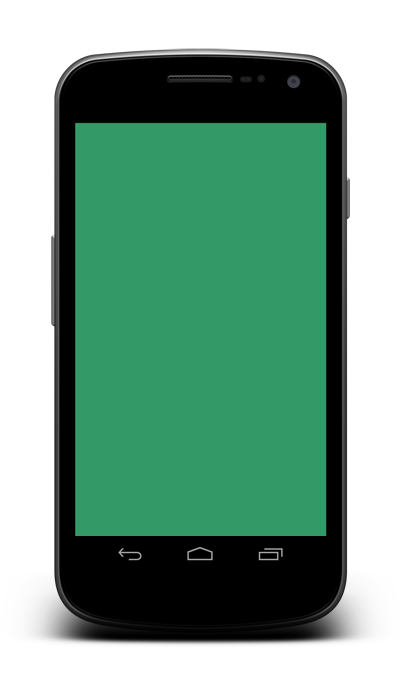
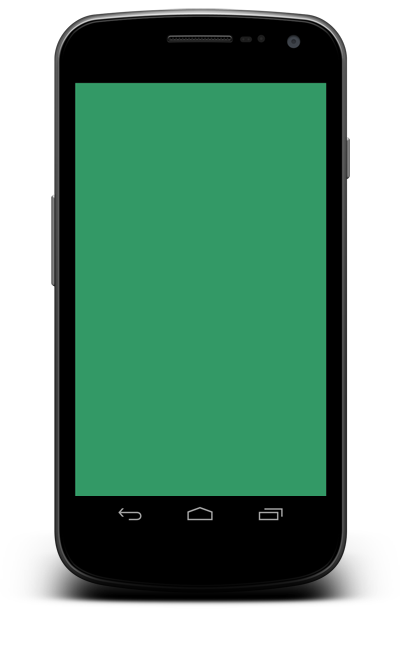
Smaller changes

diff --git a/TweeWebb/Content/Site.css b/TweeWebb/Content/Site.css
@@ -5,6 +5,12 @@ body {
     background-color: #dfdfdf;
     background-image: url(/Content/images/large_bg.jpg);
     background-repeat: repeat-x;
+    overflow: hidden;
+    height: 100%;
+}
+
+html {
+    height: 100%;
 }
 
 header,
@@ -66,14 +72,14 @@ textarea {
 }
 
 .phone-shadow {
-    height: 695px;
+    height: 655px;
     width: 400px;
     position: relative;
     background: url(/Content/images/phone/port_shadow.png);
 }
 
 .phone-wrapper {
-    height: 695px;
+    height: 655px;
     width: 400px;
     position: relative;
     background: url(/Content/images/phone/port_back_shadow.png);
@@ -83,7 +89,7 @@ textarea {
     height: 695px;
     width: 400px;
     position: absolute;
-    top: 1px;
+    top: -41px;
     background: url(/Content/images/phone/port_fore.png);
 }
 
@@ -93,7 +99,7 @@ textarea {
 }
 
 ul.pitch {
-    margin: 0;
+    margin: 20px 0 0 0;
     padding: 0;
     list-style-type: none;
 }
@@ -113,7 +119,7 @@ div.pitch-row {
 
     div.pitch-row .information {
         position: absolute;
-        top: 0;
+        top: 10px;
         left: 115px;
     }
 
@@ -125,9 +131,7 @@ div.pitch-row {
     height: 100px;
     background-size: 100px;
     background-position: left center;
-    -webkit-transition: opacity 1s ease;
     background-repeat: no-repeat;
-    cursor: default;
     position: relative;
 }
 
@@ -136,9 +140,12 @@ div.pitch-row {
     width: 100%;
     background-size: 100px;
     background-position: left center;
+    transition: opacity 1s ease;
+    -moz-transition: opacity 1s ease;
     -webkit-transition: opacity 1s ease;
+    -o-transition: opacity 1s ease;
     background-repeat: no-repeat;
-    cursor: default;
+    cursor: pointer;
     position: absolute;
 }
 
@@ -150,9 +157,23 @@ div.pitch-row {
     background-image: url(/Content/images/icons/cloud.png);
 }
 
-.background.cloud:hover {
-    opacity: 0;
+    .background.cloud:hover {
+        opacity: 0;
+    }
+
+
+    .pitch-row.totop {
+    background-image: url(/Content/images/icons/totop-alt.png);
 }
+
+.background.totop {
+    background-image: url(/Content/images/icons/totop.png);
+}
+
+    .background.totop:hover {
+        opacity: 0;
+    }
+
 
 .pitch-row.design {
     background-image: url(/Content/images/icons/design-alt.png);
@@ -162,9 +183,9 @@ div.pitch-row {
     background-image: url(/Content/images/icons/design.png);
 }
 
-.background.design:hover {
-    opacity: 0;
-}
+    .background.design:hover {
+        opacity: 0;
+    }
 
 .pitch-row.community {
     background-image: url(/Content/images/icons/community-alt.png);
@@ -174,9 +195,9 @@ div.pitch-row {
     background-image: url(/Content/images/icons/community.png);
 }
 
-.background.community:hover {
-    opacity: 0;
-}
+    .background.community:hover {
+        opacity: 0;
+    }
 
 .pitch-row.download {
     background-image: url(/Content/images/icons/download-alt.png);
@@ -186,9 +207,9 @@ div.pitch-row {
     background-image: url(/Content/images/icons/download.png);
 }
 
-.background.download:hover {
-    opacity: 0;
-}
+    .background.download:hover {
+        opacity: 0;
+    }
 
 .pitch-row.profile {
     background-image: url(/Content/images/icons/profiles-alt.png);
@@ -198,39 +219,50 @@ div.pitch-row {
     background-image: url(/Content/images/icons/profiles.png);
 }
 
-.background.profile:hover {
-    opacity: 0;
-}
-
-/*.pitch-row.design {
-    background-image: url(/Content/images/icons/design.png);
-}
-
-    .pitch-row.design:hover {
-        background-image: url(/Content/images/icons/design-alt.png);
+    .background.profile:hover {
+        opacity: 0;
     }
 
-.pitch-row.community {
-    background-image: url(/Content/images/icons/community.png);
+.container.page {
+    height: 100%;
 }
 
-    .pitch-row.community:hover {
-        background-image: url(/Content/images/icons/community-alt.png);
-    }
-
-
-.pitch-row.download {
-    background-image: url(/Content/images/icons/download.png);
+.container.page h1 {
+    margin-top: 120px;
+    border-bottom: 1px solid #333;
 }
 
-    .pitch-row.download:hover {
-        background-image: url(/Content/images/icons/download-alt.png);
-    }
 
-.pitch-row.profiles {
-    background-image: url(/Content/images/icons/profiles.png);
+#nagging-nav {
+    width: 100%;
+    height: 105px;
+    position: fixed;
+    top: 0;
+    z-index: 200;
+    display: none;
 }
 
-    .pitch-row.profiles:hover {
-        background-image: url(/Content/images/icons/profiles-alt.png);
-    }*/
+#nagging-link-holder {
+    width: 960px;
+    text-align: center;
+    margin-left: auto;
+    margin-right: auto;
+    height: 100%;
+}
+
+#nagging-link-holder ul {
+    margin: 0;
+    padding:0;
+    list-style-type: none;
+}
+#nagging-link-holder ul li {
+    margin: 0px 10px;
+    width: 100px;
+    height: 100px;
+    float: left;
+}
+
+#nagging-link-holder ul li p{
+    margin-top: 100px;
+    font-weight: bold;
+}
